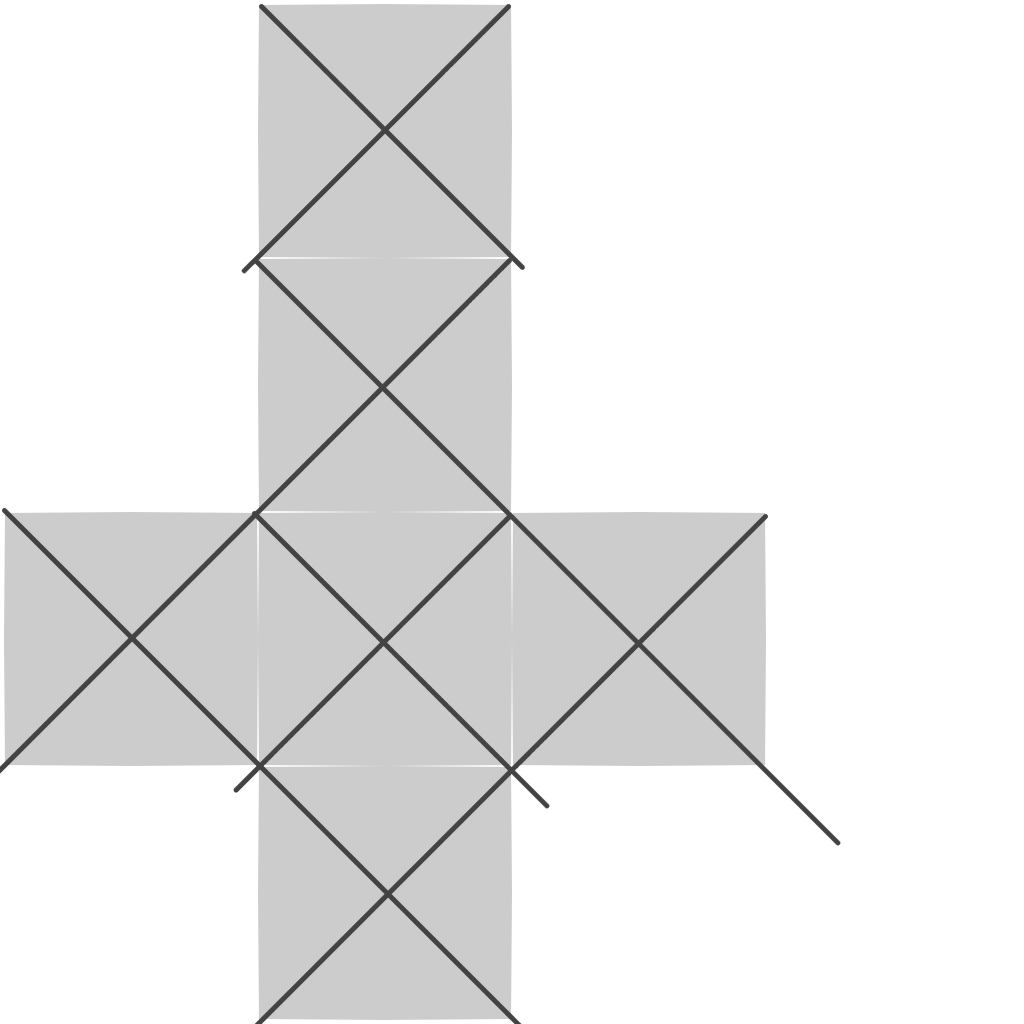
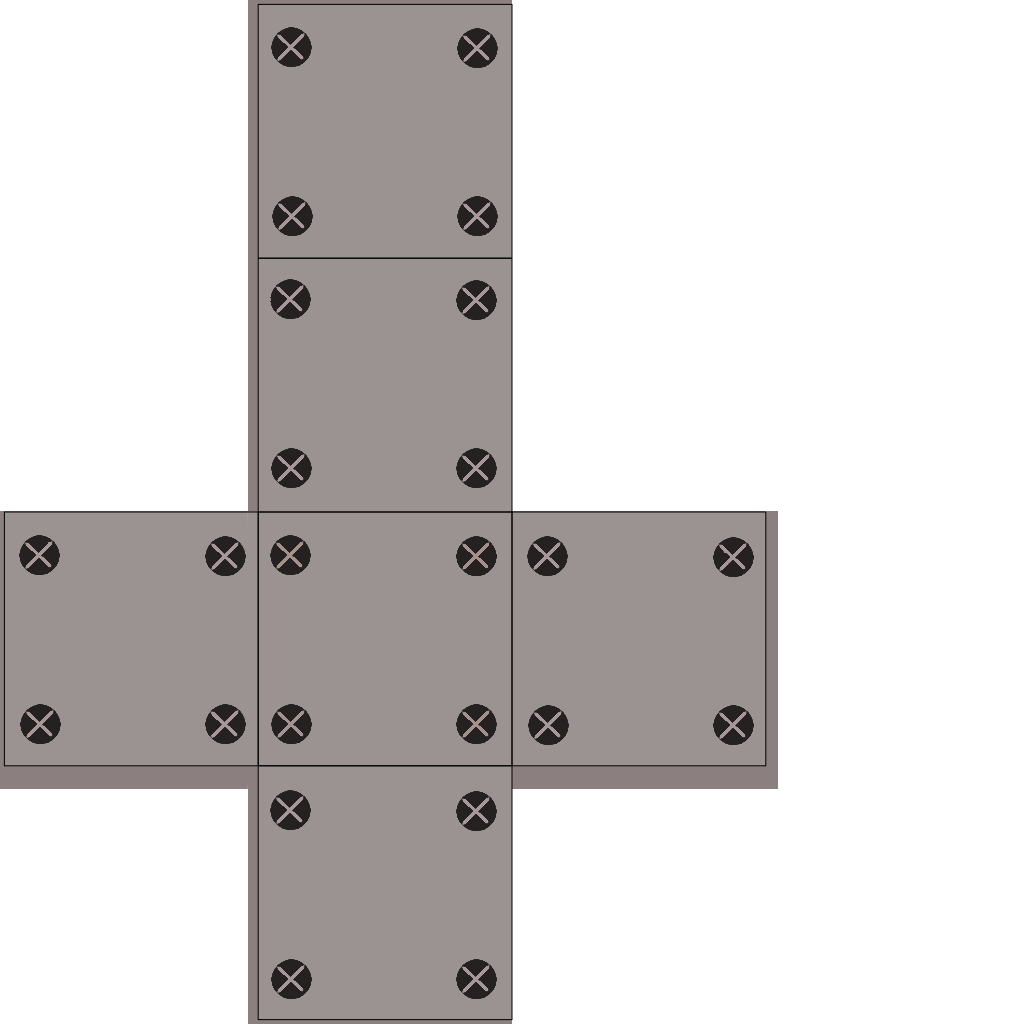
ジャンプブロックとコピー不可ブロックのテクスチャ変更

diff --git a/engine/scene/GamePlayScene.cpp b/engine/scene/GamePlayScene.cpp
@@ -33,8 +33,8 @@ void GamePlayScene::Initialize()
 	ModelManager::GetInstans()->LoadModel("axis.obj");
 	ModelManager::GetInstans()->LoadModel("plane.obj");
 	ModelManager::GetInstans()->LoadModel("sphere.obj");
-	ModelManager::GetInstans()->LoadModel("terrain.obj");
 	ModelManager::GetInstans()->LoadModel("cube.obj");
+	ModelManager::GetInstans()->LoadModel("jump.obj");
 
 	//ModelManager::GetInstans()->LoadModel("Player.obj");
 	ModelManager::GetInstans()->LoadModel("playercharacter.obj");

diff --git a/Block.cpp b/Block.cpp
@@ -73,7 +73,7 @@ void Block::Initialize(MapChipType type, const Vector3& position, Map* map) {
 
 	case MapChipType::kjumpBlock:               // No.9 プレイヤーの上昇
 		// モデル指定
-		object3D->SetModel("cube.obj");
+		object3D->SetModel("jump.obj");
 		break;
 	}
 
